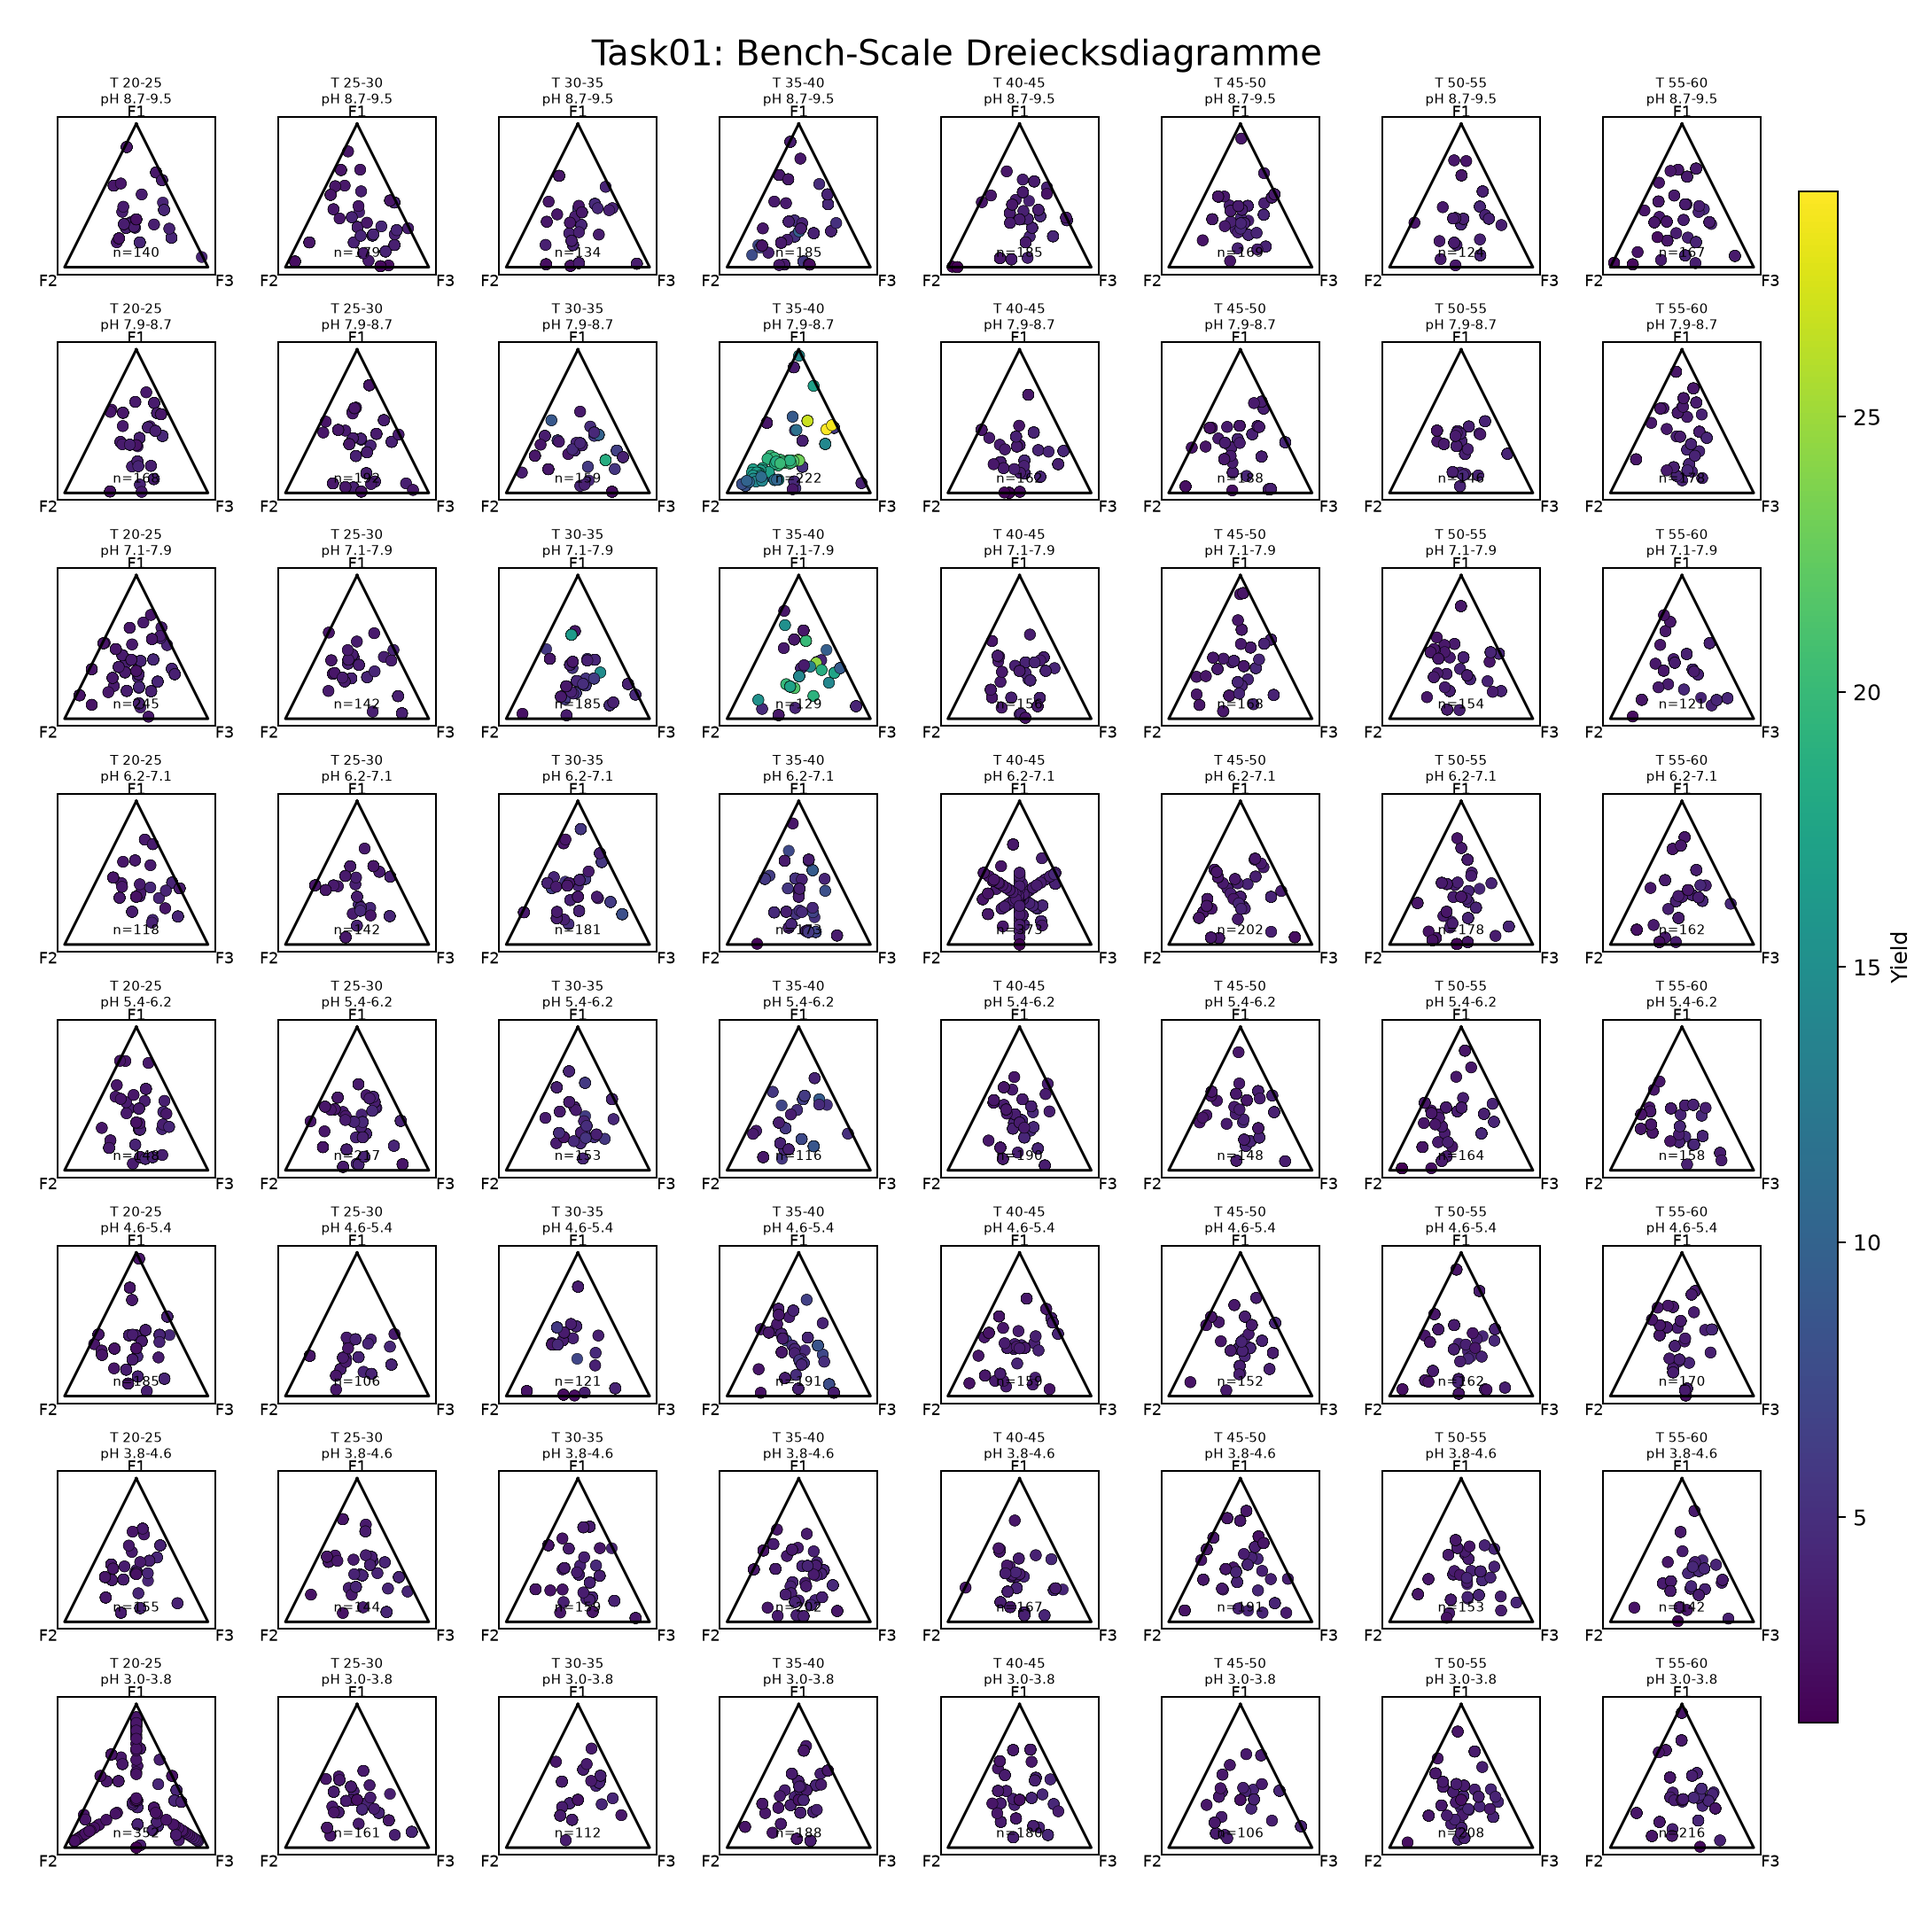
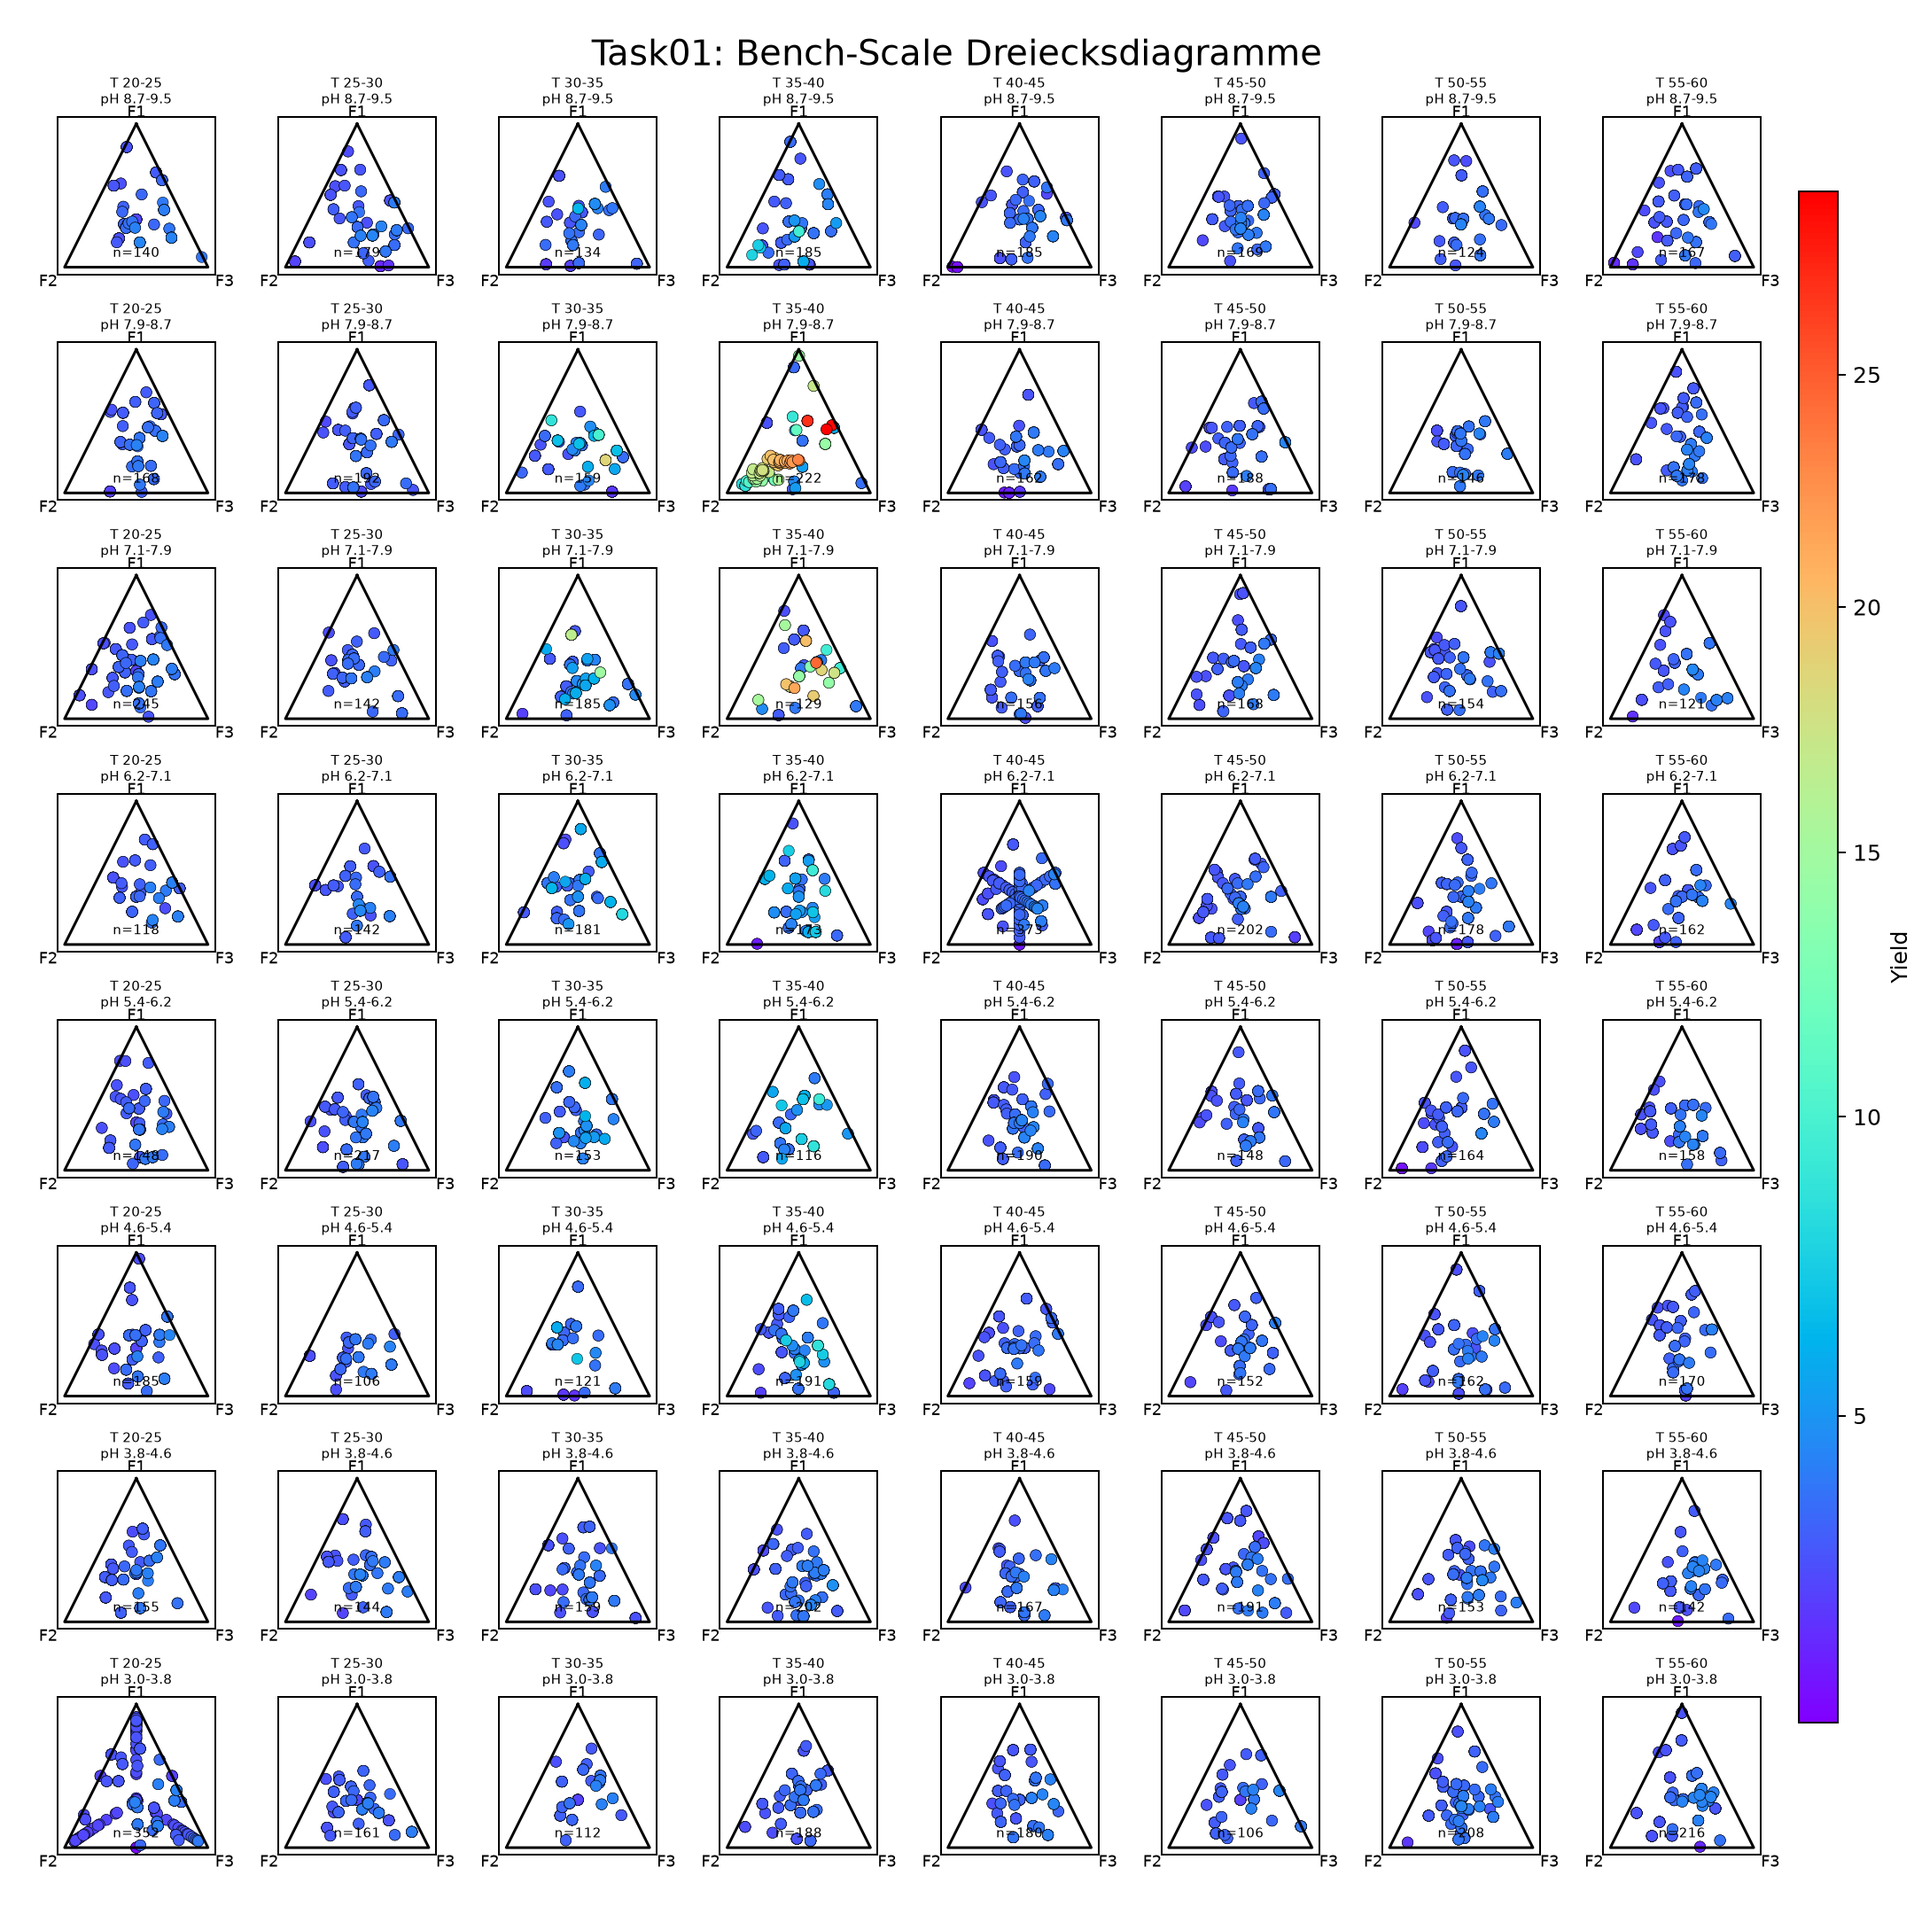
Completion of task1 and 2, Visualisation of biases in stadrad deviation

diff --git a/Task01/task01_stddev_visualization.py b/Task01/task01_stddev_visualization.py
@@ -1,0 +1,280 @@
+from __future__ import annotations
+
+import sys
+from pathlib import Path
+
+try:
+    import pandas as pd
+    import numpy as np
+except ImportError:
+    print("Benoetigt: pip install pandas openpyxl numpy matplotlib")
+    sys.exit(1)
+
+
+def _barycentric_coords(f1: float, f2: float, f3: float) -> tuple[float, float] | None:
+    total = f1 + f2 + f3
+    if total <= 0:
+        return None
+    w1 = f1 / total
+    w3 = f3 / total
+    x = 0.5 * w1 + w3
+    y = w1
+    return x, y
+
+
+def read_and_compute_stddev(path: str) -> list[dict]:
+    """Read Excel, group by identical conditions, compute std of Y per group."""
+    xls = pd.ExcelFile(path)
+
+    all_dfs = []
+    for sheet in xls.sheet_names:
+        df = pd.read_excel(xls, sheet_name=sheet, header=0)
+        required = {"scale", "T", "pH", "F1", "F2", "F3", "Y"}
+        if not required.issubset(set(df.columns)):
+            continue
+        all_dfs.append(df[list(required)])
+
+    if not all_dfs:
+        print("Keine gueltigen Sheets gefunden.")
+        return []
+
+    data = pd.concat(all_dfs, ignore_index=True)
+    data = data.dropna(subset=list(required))
+
+    group_cols = ["scale", "T", "pH", "F1", "F2", "F3"]
+    grouped = data.groupby(group_cols)["Y"].agg(
+        count="count",
+        std_y="std",
+        mean_y="mean",
+    ).reset_index()
+
+    grouped = grouped[grouped["count"] >= 2].copy()
+    grouped["std_y"] = grouped["std_y"].fillna(0.0)
+
+    rows = []
+    for _, row in grouped.iterrows():
+        coords = _barycentric_coords(row["F1"], row["F2"], row["F3"])
+        if coords is None:
+            continue
+        rows.append({
+            "scale":  str(row["scale"]).strip(),
+            "T":      float(row["T"]),
+            "pH":     float(row["pH"]),
+            "F1":     float(row["F1"]),
+            "F2":     float(row["F2"]),
+            "F3":     float(row["F3"]),
+            "std_y":  float(row["std_y"]),
+            "mean_y": float(row["mean_y"]),
+            "count":  int(row["count"]),
+        })
+
+    print(f"Gefundene Gruppen mit >=2 Wiederholungen: {len(rows)}")
+    for scale in ["micro", "bench", "pilot"]:
+        scale_rows = [r for r in rows if r["scale"] == scale]
+        n = len(scale_rows)
+        if n > 0:
+            avg_std = sum(r["std_y"] for r in scale_rows) / n
+            print(f"  {scale}: {n} Gruppen, Avg Std = {avg_std:.6f}")
+        else:
+            print(f"  {scale}: 0 Gruppen")
+    return rows
+
+
+def visualize_stddev(rows: list[dict], t_bins: int = 8, ph_bins: int = 8) -> None:
+    try:
+        import matplotlib.pyplot as plt
+        import matplotlib.colors as mcolors
+    except ImportError:
+        print("Matplotlib nicht installiert: pip install matplotlib")
+        return
+
+    if not rows:
+        print("Keine Daten zum Visualisieren.")
+        return
+
+    t_values  = [r["T"]  for r in rows]
+    ph_values = [r["pH"] for r in rows]
+    t_min, t_max   = min(t_values),  max(t_values)
+    ph_min, ph_max = min(ph_values), max(ph_values)
+    if t_min  == t_max:  t_max  = t_min  + 1.0
+    if ph_min == ph_max: ph_max = ph_min + 1.0
+
+    t_edges  = [t_min  + i * (t_max  - t_min)  / t_bins  for i in range(t_bins  + 1)]
+    ph_edges = [ph_min + i * (ph_max - ph_min) / ph_bins for i in range(ph_bins + 1)]
+
+    def find_bin(value: float, edges: list[float]) -> int:
+        for i in range(len(edges) - 1):
+            if edges[i] <= value < edges[i + 1] or (i == len(edges) - 2 and value == edges[-1]):
+                return i
+        return len(edges) - 2
+
+    scale_std_ranges: dict[str, tuple[float, float] | None] = {}
+    for scale in ["micro", "bench", "pilot"]:
+        vals = [r["std_y"] for r in rows if r["scale"] == scale]
+        scale_std_ranges[scale] = (min(vals), max(vals)) if vals else None
+
+    binned: dict[str, dict[tuple[int, int], list[dict]]] = {
+        "micro": {}, "bench": {}, "pilot": {}
+    }
+    for r in rows:
+        scale = r["scale"]
+        if scale not in binned:
+            continue
+        key = (find_bin(r["T"], t_edges), find_bin(r["pH"], ph_edges))
+        binned[scale].setdefault(key, []).append(r)
+
+    for scale in ["micro", "bench", "pilot"]:
+        scale_rows = [r for r in rows if r["scale"] == scale]
+        if not scale_rows:
+            print(f"Keine Daten fuer Scale '{scale}', wird uebersprungen.")
+            continue
+
+        fig, axes = plt.subplots(ph_bins, t_bins, figsize=(12, 12), squeeze=False)
+        fig.suptitle(
+            f"Task01: {scale.capitalize()}-Scale - Standardabweichung des Yields",
+            fontsize=16,
+        )
+
+        std_range = scale_std_ranges[scale]
+        vmin, vmax = (std_range if std_range else (0.0, 1.0))
+        norm = mcolors.Normalize(vmin=vmin, vmax=vmax)
+
+        figure_scatter = None
+
+        for ph_idx in range(ph_bins):
+            for t_idx in range(t_bins):
+                ax = axes[ph_bins - 1 - ph_idx][t_idx]
+                bin_samples = binned[scale].get((t_idx, ph_idx), [])
+
+                ax.plot([0.5, 0.0, 1.0, 0.5], [1.0, 0.0, 0.0, 1.0],
+                        color="black", linewidth=1.2)
+                ax.text(0.5,   1.02,  "F1", ha="center", va="bottom", fontsize=7)
+                ax.text(-0.05, -0.05, "F2", ha="right",  va="top",    fontsize=7)
+                ax.text(1.05,  -0.05, "F3", ha="left",   va="top",    fontsize=7)
+
+                if bin_samples:
+                    bin_samples = sorted(bin_samples, key=lambda r: r["std_y"])
+                    coords = [_barycentric_coords(r["F1"], r["F2"], r["F3"])
+                              for r in bin_samples]
+                    valid = [(c, r["std_y"], r["count"])
+                             for c, r in zip(coords, bin_samples) if c is not None]
+
+                    if valid:
+                        xs       = [c[0] for c, _, _ in valid]
+                        ys       = [c[1] for c, _, _ in valid]
+                        std_vals = [s    for _, s, _ in valid]
+
+                        scatter_kwargs = dict(
+                            c=std_vals,
+                            cmap="YlOrRd",
+                            norm=norm,
+                            s=25,
+                            edgecolors="black",
+                            linewidths=0.2,
+                        )
+                        if figure_scatter is None:
+                            figure_scatter = ax.scatter(xs, ys, **scatter_kwargs)
+                        else:
+                            ax.scatter(xs, ys, **scatter_kwargs)
+
+                        ax.text(0.5, 0.05, f"n={len(valid)}",
+                                ha="center", va="bottom", fontsize=6, color="black")
+                else:
+                    ax.text(0.5, 0.5, "leer",
+                            ha="center", va="center", fontsize=7, color="gray")
+
+                ax.set_xlim(-0.05, 1.05)
+                ax.set_ylim(-0.05, 1.05)
+                ax.set_xticks([])
+                ax.set_yticks([])
+                ax.set_aspect("equal")
+                ax.set_title(
+                    f"T {t_edges[t_idx]:.0f}-{t_edges[t_idx+1]:.0f}\n"
+                    f"pH {ph_edges[ph_idx]:.1f}-{ph_edges[ph_idx+1]:.1f}",
+                    fontsize=6,
+                )
+
+        fig.subplots_adjust(
+            left=0.03, right=0.92, top=0.94, bottom=0.03, hspace=0.4, wspace=0.4
+        )
+        if figure_scatter is not None:
+            cax = fig.add_axes([0.94, 0.1, 0.02, 0.8])
+            fig.colorbar(figure_scatter, cax=cax, label="Std.-Abweichung Yield")
+
+        output_path = f"Task01_stddev_{scale}.png"
+        fig.savefig(output_path, dpi=180)
+        plt.close(fig)
+        print(f"Gespeichert: {output_path}")
+
+
+def visualize_histograms(rows: list[dict], bins: int = 15, min_count: int = 4) -> None:
+    """Creates and saves a histogram of std_y for each scale, filtering for groups with >= min_count."""
+    try:
+        import matplotlib.pyplot as plt
+    except ImportError:
+        return
+
+    for scale in ["micro", "bench", "pilot"]:
+        # Hier filtern wir zusätzlich nach der Anzahl der Wiederholungen (count)
+        scale_rows = [r for r in rows if r["scale"] == scale and r["count"] >= min_count]
+        
+        if not scale_rows:
+            print(f"Keine Daten für Scale '{scale}' mit n >= {min_count} vorhanden. Überspringe Histogramm.")
+            continue
+
+        std_vals = [r["std_y"] for r in scale_rows]
+
+        fig, ax = plt.subplots(figsize=(7, 4.5))
+        
+        # Histogramm zeichnen
+        ax.hist(std_vals, bins=bins, color="#f15a24", edgecolor="black", alpha=0.8, rwidth=0.9)
+        
+        ax.set_title(f"Verteilung der Std.-Abweichung ({scale.capitalize()}-Scale)\nNur Gruppen mit n ≥ {min_count}", 
+                     fontsize=12, fontweight='bold', pad=12)
+        ax.set_xlabel("Standardabweichung des Yields (std_y)", fontsize=10)
+        ax.set_ylabel("Anzahl der Gruppen", fontsize=10)
+        
+        ax.grid(axis='y', linestyle='--', alpha=0.7)
+        ax.set_axisbelow(True)
+
+        # Statistische Kennzahlen für die gefilterten Daten berechnen
+        mean_std = np.mean(std_vals)
+        median_std = np.median(std_vals)
+        textstr = f"Gruppen (n≥{min_count}): {len(std_vals)}\nSchnitt: {mean_std:.4f}\nMedian: {median_std:.4f}"
+        props = dict(boxstyle='round', facecolor='wheat', alpha=0.5)
+        ax.text(0.95, 0.95, textstr, transform=ax.transAxes, fontsize=9,
+                verticalalignment='top', horizontalalignment='right', bbox=props)
+
+        plt.tight_layout()
+        output_path = f"Task01_hist_{scale}.png"
+        fig.savefig(output_path, dpi=180)
+        plt.close(fig)
+        print(f"Gespeichert: {output_path}")
+
+
+if __name__ == "__main__":
+    path = "Summery_ Versuche.xlsx"
+    if len(sys.argv) > 1:
+        path = " ".join(sys.argv[1:]).strip('"')
+
+    file_path = Path(path)
+    if not file_path.exists():
+        script_dir = Path(__file__).resolve().parent
+        candidates = list(script_dir.glob("*.xlsx"))
+        for c in candidates:
+            name_norm = "".join(ch for ch in c.name.lower() if ch.isalnum())
+            req_norm  = "".join(ch for ch in file_path.name.lower() if ch.isalnum())
+            if name_norm == req_norm:
+                file_path = c
+                break
+        else:
+            print(f"Datei nicht gefunden: {path}")
+            for c in candidates:
+                print(f"  {c.name}")
+            sys.exit(1)
+
+    print(f"Verwende: {file_path}")
+    rows = read_and_compute_stddev(str(file_path))
+    if rows:
+        visualize_stddev(rows)
+        visualize_histograms(rows, min_count=4)  # Filtert jetzt auf >= 4 Messungen

diff --git a/Task01/task01_visualize.py b/Task01/task01_visualize.py
@@ -139,7 +139,7 @@ def visualize_task01_results(results: list[dict], t_bins: int = 8, ph_bins: int 
         # Hier definieren wir die PowerNorm. Gamma=0.5 zieht die Farbskala 
         # so auseinander, dass Unterschiede im unteren Bereich deutlicher werden.
         # Wenn nötig, kannst du gamma auf 0.3 oder 0.4 anpassen, wenn es noch extremer sein soll.
-        norm = mcolors.PowerNorm(gamma=0.2, vmin=scale_vmin, vmax=scale_vmax)
+        norm = mcolors.PowerNorm(gamma=0.8, vmin=scale_vmin, vmax=scale_vmax)
 
         for ph_idx in range(ph_bins):
             for t_idx in range(t_bins):
@@ -160,6 +160,7 @@ def visualize_task01_results(results: list[dict], t_bins: int = 8, ph_bins: int 
                     ]
                     coords = [(c, q) for c, q in coords if c is not None]
                     if coords:
+                        coords = sorted(coords, key=lambda item: item[1])  # aufsteigend → hohe Werte zuletzt = oben
                         xs, ys = zip(*[c for c, _ in coords])
                         qualities = [q for _, q in coords]
                         if figure_scatter is None:
